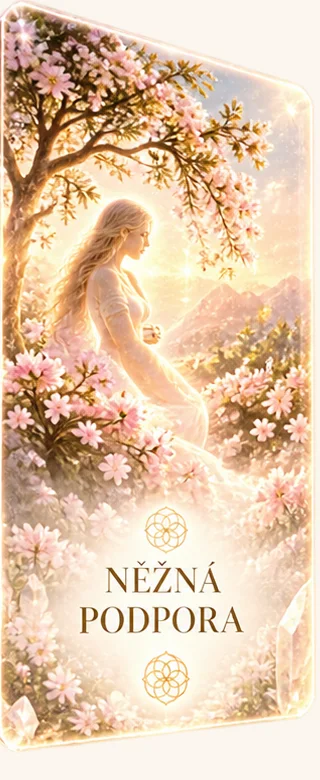
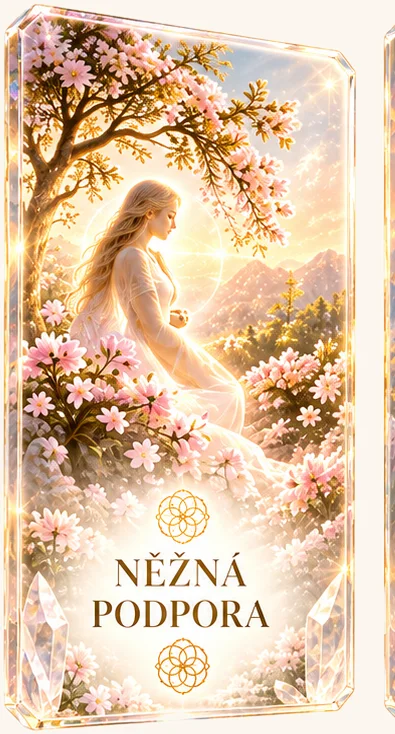
Hero: čtyři karty s odstupem od krajů, ostřejší obaly

diff --git a/oaza-web/meditace.html b/oaza-web/meditace.html
@@ -292,7 +292,7 @@ dialog .zavrit{position:absolute;top:12px;right:12px;width:40px;height:40px;bord
         <li><svg viewBox="0 0 24 24" fill="none" stroke="currentColor" stroke-width="1.5" stroke-linejoin="round" aria-hidden="true"><path d="M12 20C6 15.5 3 12.5 3 8.75A4.75 4.75 0 0112 6.5a4.75 4.75 0 019 2.25C21 12.5 18 15.5 12 20z"/></svg>Tvořeno s láskou</li>
       </ul>
     </div>
-    <div class="hero-karty" aria-hidden="true"><img src="/img/hero-karty.webp?v=1" alt="" width="1918" height="820" fetchpriority="high"></div>
+    <div class="hero-karty" aria-hidden="true"><img src="/img/hero-karty.webp?v=2" alt="" width="1552" height="739" fetchpriority="high"></div>
   </div>
 </section>
 
@@ -409,10 +409,10 @@ const NASTAVENI = {
   dniPristupu: 30
 };
 const MEDITACE = [
-  { klic:'nezna-podpora', nazev:'Něžná podpora', afirmace:'Objetí, které tě podrží',          popis:'Jemná meditace pro chvíle, kdy potřebuješ laskavost a oporu.',              obrazek:'/img/meditace-nezna-podpora.webp?v=1', delka:'', cena:'', ukazka:'' },
-  { klic:'sila-zeme',     nazev:'Síla země',     afirmace:'Uzemnění a stabilita',              popis:'Meditace pro pevné kořeny, klid v těle a jistotu v každém kroku.',          obrazek:'/img/meditace-sila-zeme.webp?v=1',     delka:'', cena:'', ukazka:'' },
-  { klic:'splynuti',      nazev:'Splynutí',      afirmace:'Návrat k jednotě',                  popis:'Hluboké spojení se sebou, s přírodou a se vším, co je.',                     obrazek:'/img/meditace-splynuti.webp?v=1',      delka:'', cena:'', ukazka:'' },
-  { klic:'hvezda-duse',   nazev:'Hvězda duše',   afirmace:'Spojení s tvým světlem',            popis:'Meditace pro návrat k tvé esenci a životnímu poslání.',                      obrazek:'/img/meditace-hvezda-duse.webp?v=1',   delka:'', cena:'', ukazka:'' },
+  { klic:'nezna-podpora', nazev:'Něžná podpora', afirmace:'Objetí, které tě podrží',          popis:'Jemná meditace pro chvíle, kdy potřebuješ laskavost a oporu.',              obrazek:'/img/meditace-nezna-podpora.webp?v=2', delka:'', cena:'', ukazka:'' },
+  { klic:'sila-zeme',     nazev:'Síla země',     afirmace:'Uzemnění a stabilita',              popis:'Meditace pro pevné kořeny, klid v těle a jistotu v každém kroku.',          obrazek:'/img/meditace-sila-zeme.webp?v=2',     delka:'', cena:'', ukazka:'' },
+  { klic:'splynuti',      nazev:'Splynutí',      afirmace:'Návrat k jednotě',                  popis:'Hluboké spojení se sebou, s přírodou a se vším, co je.',                     obrazek:'/img/meditace-splynuti.webp?v=2',      delka:'', cena:'', ukazka:'' },
+  { klic:'hvezda-duse',   nazev:'Hvězda duše',   afirmace:'Spojení s tvým světlem',            popis:'Meditace pro návrat k tvé esenci a životnímu poslání.',                      obrazek:'/img/meditace-hvezda-duse.webp?v=2',   delka:'', cena:'', ukazka:'' },
   { klic:'ocista-aury',   nazev:'Očista aury',   afirmace:'Uvolnění, obnova, nový začátek',    popis:'Něžná meditace pro očistu na všech úrovních.',                               obrazek:'/img/meditace-ocista-aury.webp?v=1',   delka:'', cena:'', ukazka:'' }
 ];
 const OHLASY = [
